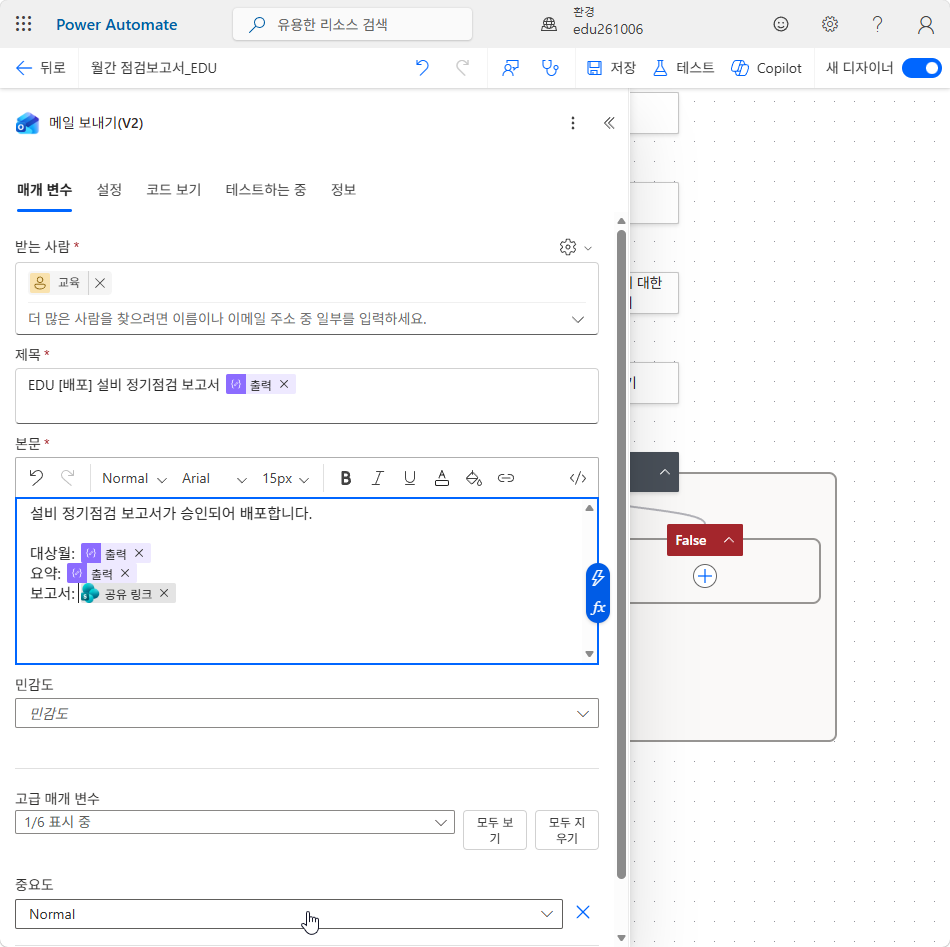
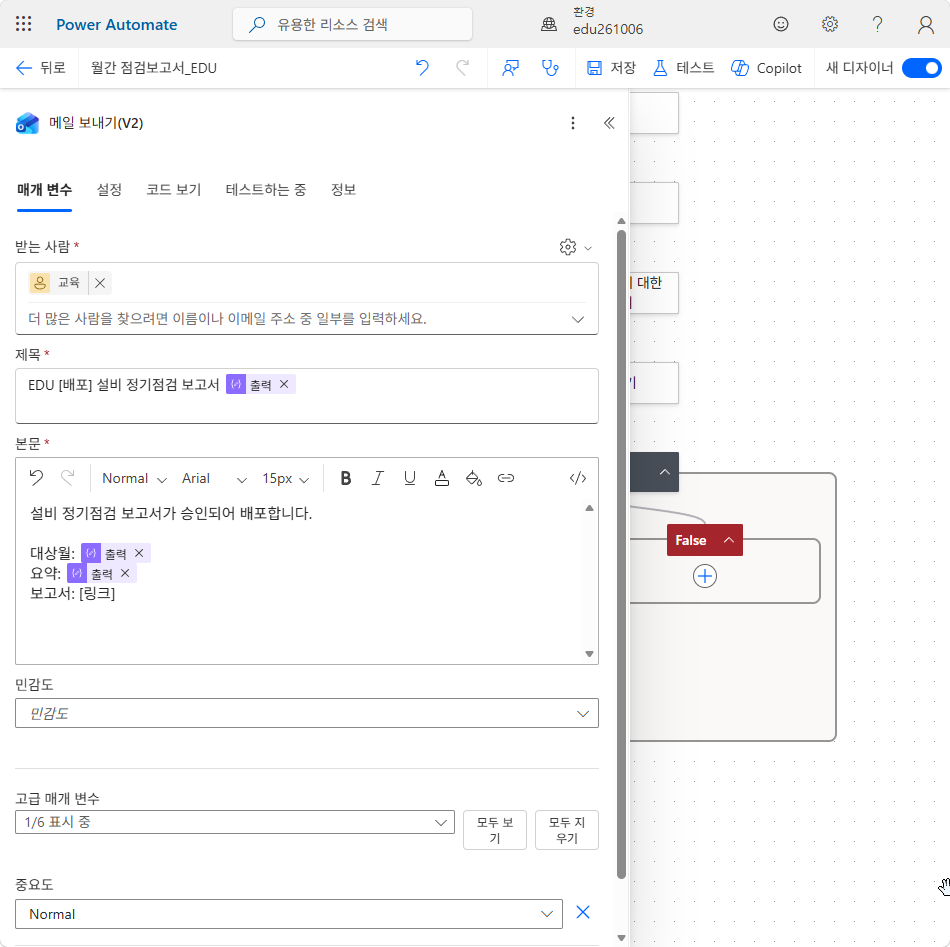
Lab 3 26~41번 실측 반영 — Teams 흐름 봇 메시지 · 반려 메일
- 26번 재촬영, 기존 26 컷은 27번(공유 링크 칩)으로 옮김
- 30번 게시 위치를 고르면 Recipient · 메시지 칸이 나타남
- 35번 검색어를 메일 보내기로, False 갈래 카드 이름 메일 보내기(V2) 1 안내
- 40번 컷 셋(선택 + fx · 식 편집기 · first(...) 칩)

Changed region(s): [[0.6105, 0.5818, 0.6411, 0.7043], [0.0611, 0.6125, 0.1832, 0.6431], [0.3053, 0.9493, 0.3358, 1.0]]

diff --git a/docs/lab3.md b/docs/lab3.md
@@ -26,6 +26,8 @@ nav_order: 4
         (Start and wait for an approval of text · StartAndWaitForATextSuggestionApproval)이고, 한국어 이름에서 「텍스트」가 빠졌다.
         구별은 첫 칸이 「승인 형식」인지(제작자 방법), 애매하면 코드 보기 operationId. 둘째로 추가한 카드는 이름에 「 1」이 붙는다
       - 10~57번은 2026-10-05 Lab 1·2 실측(데이터 작업 · 컨트롤 경로, edu 검색, 흐름 봇 표기, 테스트 창, 워크플로 발신자)을 미리 반영했다. 촬영 때 다시 맞춘다
+      - ✔ 26~41번 실측(2026-10-05). Teams 작업 이름은 「채팅 또는 채널에서 메시지 게시」, 칸은 다음으로 게시 · 게시 위치 · Recipient · 메시지.
+        게시 위치를 고르면 Recipient · 메시지 칸이 나타난다. False 갈래 메일 카드 이름은 `메일 보내기(V2) 1`(가정대로). 반려 의견 식은 fx 로 넣으면 `first(...)` 칩이 된다
       - ✔ 10~26번 실측(2026-10-05). 승인 형식 값은 「승인/거부 - 첫 번째로 응답」. 항목 링크 · 항목 링크 설명은 고급 매개 변수가 아니라 기본 칸이다
         (고급 매개 변수 2/4 는 알림 사용 · 재할당 사용). 공유 링크 작업의 출력 이름은 「공유 링크」. 할당 대상 검색에 보안 그룹 edu261006-users 도 뜬다.
         11번 제목은 제작자 촬영대로 대상월 칩 없이 둔다(44번 제목도 맞췄다). 22번은 Lab 1 의 Outlook 연결을 그대로 쓴다
@@ -33,10 +35,6 @@ nav_order: 4
        - ✔ 칸 이름은 「승인 형식」, 값은 「승인/거부 - 첫 번째로 응답」(10번 실측). cs_lab_adv lab5 표기와 같다
        - ✔ 결과 값 `Approve` / `Reject` — 커넥터 참조 영문판 Known issues 에 「Valid responses … are "Approve" and "Reject". These responses are case-sensitive.」(2026-10-05 확인). 한국어판의 「승인」「거부」는 번역이다
          승인 흐름 자습서 한국어판도 조건 오른쪽에 「승인」을 입력하라고 적는다 — 실측으로 어느 쪽인지 닫는다(20번)
-       - 「채팅 또는 채널에서 메시지 게시」 — 커넥터 참조 한국어판은 「채팅 또는 채널에 메시지 게시」, 칸 이름은 「다음으로 게시」·「다음에서 게시」다.
-         선택지 글자(흐름 봇 · 흐름 봇과 채팅)와 Teams에서 보낸 이 표시(흐름 봇 인지 Workflows 인지)
-       - 「메일 보내기(V2)」 칸 이름 받는 사람 · 제목 · 본문(커넥터 참조 한국어판은 기계 번역이라 「에게 · 주제 · 몸」)
-       - False 갈래의 두 번째 메일 카드 기본 이름(`메일 보내기(V2) 1` 로 가정)
        - 51번 재실행 때 「파일 만들기」가 같은 이름 파일을 덮어쓰는가, 실패하는가. 커넥터 참조의 파일 만들기에는 덮어쓰기 매개 변수가 없다
        - Teams 웹에서 승인 앱 위치(왼쪽 앱 막대 · ⋯ 더 보기) · 받음 탭 이름 · 승인/거부 단추와 확인 단추 이름
        - 항목 링크(조직 범위 공유 링크)로 .html 을 열 때 브라우저에 열리는가, 내려받아지는가(46번)
@@ -254,32 +252,32 @@ nav_order: 4
 
 26. `[대상월]` 과 `[건수]` 를 14번과 같은 방법으로 **대상월 › 출력**, **건수 › 출력**으로 바꿉니다.
 
-    ![본문의 대상월 · 요약 출력 칩과 보고서 공유 링크 칩](../assets/lab3/lab3-26.png)
+    ![본문의 대상월 · 요약 줄에 들어간 출력 칩, 보고서 줄은 아직 [링크]](../assets/lab3/lab3-26.png)
 
 27. `[링크]` 를 같은 방법으로 선택하고 번개 단추에서 **파일 또는 폴더에 대한 공유 링크 만들기** 아래 **공유 링크**를 고릅니다.
 
     **완료 기준**: 본문에 대괄호가 남지 않고 칩이 세 개 있다.
 
-    ![촬영: 본문 보고서 줄의 공유 링크 칩](../assets/lab3/lab3-27.png)
+    ![본문 보고서 줄에 들어간 공유 링크 칩](../assets/lab3/lab3-27.png)
 {: start="22" }
 
 ## 단계 ⑤ 승인 — Teams
 
 28. **True** 갈래의 메일 카드 아래 **+** › **작업 추가**에서 `메시지 게시` 를 검색해 **Microsoft Teams** 아래 **채팅 또는 채널에서 메시지 게시**를 고릅니다.
 
-    ![촬영: 작업 추가 검색 결과의 Microsoft Teams › 채팅 또는 채널에서 메시지 게시](../assets/lab3/lab3-28.png)
+    ![작업 추가 창 — Microsoft Teams › 채팅 또는 채널에서 메시지 게시](../assets/lab3/lab3-28.png)
 
 29. **다음으로 게시**에서 **흐름 봇**을 고릅니다.
 
-    ![촬영: 다음으로 게시 드롭다운의 흐름 봇](../assets/lab3/lab3-29.png)
+    ![다음으로 게시 = 흐름 봇, 게시 위치는 아직 옵션 선택](../assets/lab3/lab3-29.png)
 
-30. **게시 위치**에서 **흐름 봇과 채팅**을 고릅니다.
+30. **게시 위치**에서 **흐름 봇과 채팅**을 고릅니다. 아래에 **Recipient** 와 **메시지** 칸이 나타납니다.
 
-    ![촬영: 게시 위치 드롭다운의 흐름 봇과 채팅](../assets/lab3/lab3-30.png)
+    ![게시 위치 = 흐름 봇과 채팅, 아래에 나타난 Recipient · 메시지 칸](../assets/lab3/lab3-30.png)
 
 31. **Recipient** 칸에 `edu` 를 입력하고 목록에서 **교육**을 고릅니다.
 
-    ![촬영: Recipient 에 고른 교육 계정](../assets/lab3/lab3-31.png)
+    ![Recipient 칸에 edu 를 입력해 뜬 교육 계정](../assets/lab3/lab3-31.png)
 
 32. **메시지**에 아래를 붙여넣습니다.
 
@@ -287,26 +285,26 @@ nav_order: 4
     HGD 설비 정기점검 보고서 [대상월] 승인 완료. [건수] 보고서: [링크]
     ```
 
-    ![촬영: 메시지에 붙여넣은 한 줄](../assets/lab3/lab3-32.png)
+    ![Recipient 교육 칩과 메시지에 붙여넣은 한 줄](../assets/lab3/lab3-32.png)
 
 33. 대괄호 세 곳을 26·27번과 같은 방법으로 **대상월 › 출력**, **건수 › 출력**, **공유 링크**로 바꿉니다.
 
-    ![촬영: 메시지의 출력 칩 두 개와 공유 링크 칩](../assets/lab3/lab3-33.png)
+    ![메시지의 출력 칩 두 개와 공유 링크 칩](../assets/lab3/lab3-33.png)
 
-34. **저장**을 누릅니다.
+34. 위쪽 명령 모음의 **저장**을 누릅니다.
 
-    ![촬영: True 갈래에 메일·Teams 카드가 놓인 캔버스](../assets/lab3/lab3-34.png)
+    ![True 갈래에 메일 보내기(V2) · 채팅 또는 채널에서 메시지 게시 카드가 놓인 캔버스와 저장 단추](../assets/lab3/lab3-34.png)
 {: start="28" }
 
 ## 단계 ⑥ 반려 — 의견 회신
 
-35. **False** 갈래 안의 **+** › **작업 추가**에서 `이메일 보내기` 를 검색해 **Office 365 Outlook** 아래 **메일 보내기(V2)**를 고릅니다.
+35. **False** 갈래 안의 **+** › **작업 추가**에서 `메일 보내기` 를 검색해 **Office 365 Outlook** 아래 **메일 보내기(V2)**를 고릅니다. True 갈래에 같은 작업이 있어 카드 이름이 `메일 보내기(V2) 1` 이 됩니다. 이 카드를 부르는 식이 없으므로 그대로 둡니다.
 
-    ![촬영: False 갈래에 추가하는 메일 보내기(V2)](../assets/lab3/lab3-35.png)
+    ![False 갈래의 + 와 작업 추가 창의 Office 365 Outlook › 메일 보내기(V2)](../assets/lab3/lab3-35.png)
 
 36. **받는 사람** 칸에 `edu` 를 입력하고 목록에서 **교육**을 고릅니다. 운영에서는 보고서 작성자 주소가 들어갈 자리입니다.
 
-    ![촬영: False 갈래 메일의 받는 사람](../assets/lab3/lab3-36.png)
+    ![메일 보내기(V2) 1 의 받는 사람 칸에 edu 를 입력해 뜬 교육 계정](../assets/lab3/lab3-36.png)
 
 37. **제목**에 아래를 입력하고 끝에 **대상월 › 출력**을 넣습니다.
 
@@ -314,7 +312,7 @@ nav_order: 4
     HGD [반려] 설비 정기점검 보고서 
     ```
 
-    ![촬영: 제목 — [반려] 설비 정기점검 보고서 + 출력 칩](../assets/lab3/lab3-37.png)
+    ![제목 EDU [반려] 설비 정기점검 보고서 + 출력 칩](../assets/lab3/lab3-37.png)
 
 38. **본문**에 아래를 붙여넣습니다.
 
@@ -326,11 +324,11 @@ nav_order: 4
     보고서: [링크]
     ```
 
-    ![촬영: 본문에 붙여넣은 반려 메일](../assets/lab3/lab3-38.png)
+    ![본문에 붙여넣은 반려 메일 — [대상월] · [의견] · [링크] 자리](../assets/lab3/lab3-38.png)
 
 39. 14번과 같은 방법으로 `[대상월]` 을 **대상월** 아래 **출력**으로, `[링크]` 를 **공유 링크**로 바꿉니다.
 
-    ![촬영: 반려 메일 본문의 대상월·공유 링크 칩](../assets/lab3/lab3-39.png)
+    ![반려 메일 본문의 출력 · 공유 링크 칩, 반려 의견 줄은 아직 [의견]](../assets/lab3/lab3-39.png)
 
 40. `[의견]` 을 대괄호까지 선택한 채로 ***fx***(식 삽입)를 누릅니다. 아래 식을 붙여넣고 **추가**를 누릅니다.
 
@@ -340,15 +338,19 @@ nav_order: 4
 
     승인자 응답 목록의 첫 응답에서 의견(comments)을 꺼냅니다. 동적 콘텐츠의 응답 의견을 고르면 디자이너가 카드를 **For each**로 감쌉니다. 식으로 넣으면 감싸지 않습니다.
 
-    **완료 기준**: 본문에 대괄호가 남지 않고, `반려 의견: ` 뒤에 식 칩이 있다.
+    ![[의견] 을 선택하고 fx 단추를 누르는 화면](../assets/lab3/lab3-40.png)
 
-    ![촬영: 반려 의견 자리에 들어간 식 칩](../assets/lab3/lab3-40.png)
+    ![식 편집기에 붙여넣은 first(...) 식과 추가 단추](../assets/lab3/lab3-40b.png)
+
+    **완료 기준**: 본문에 대괄호가 남지 않고, `반려 의견: ` 뒤에 `first(...)` 식 칩이 있다.
+
+    ![반려 의견 자리에 들어간 first(...) 식 칩](../assets/lab3/lab3-40c.png)
 
 41. **저장**을 누릅니다.
 
-    **완료 기준**: 오류 없이 저장되고, False 갈래에 메일 카드 하나가 있다(아래 「여기까지의 흐름」과 대조).
+    **완료 기준**: 오류 없이 저장되고, False 갈래에 `메일 보내기(V2) 1` 카드 하나가 있다(아래 「여기까지의 흐름」과 대조).
 
-    ![촬영: True·False 갈래가 모두 채워진 캔버스](../assets/lab3/lab3-41.png)
+    ![False 갈래의 메일 보내기(V2) 1 카드와 저장 단추](../assets/lab3/lab3-41.png)
 {: start="35" }
 
 ## 단계 ⑦ 승인 경로 테스트
